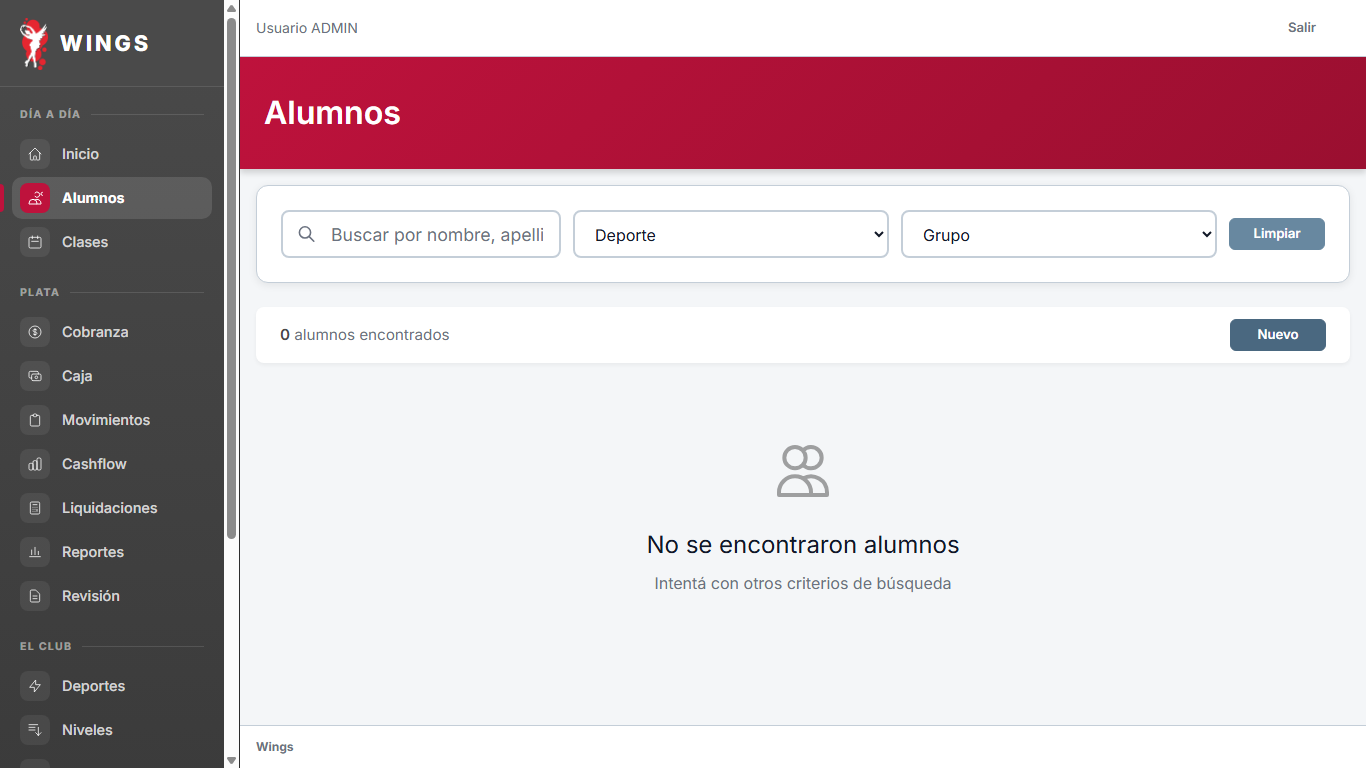
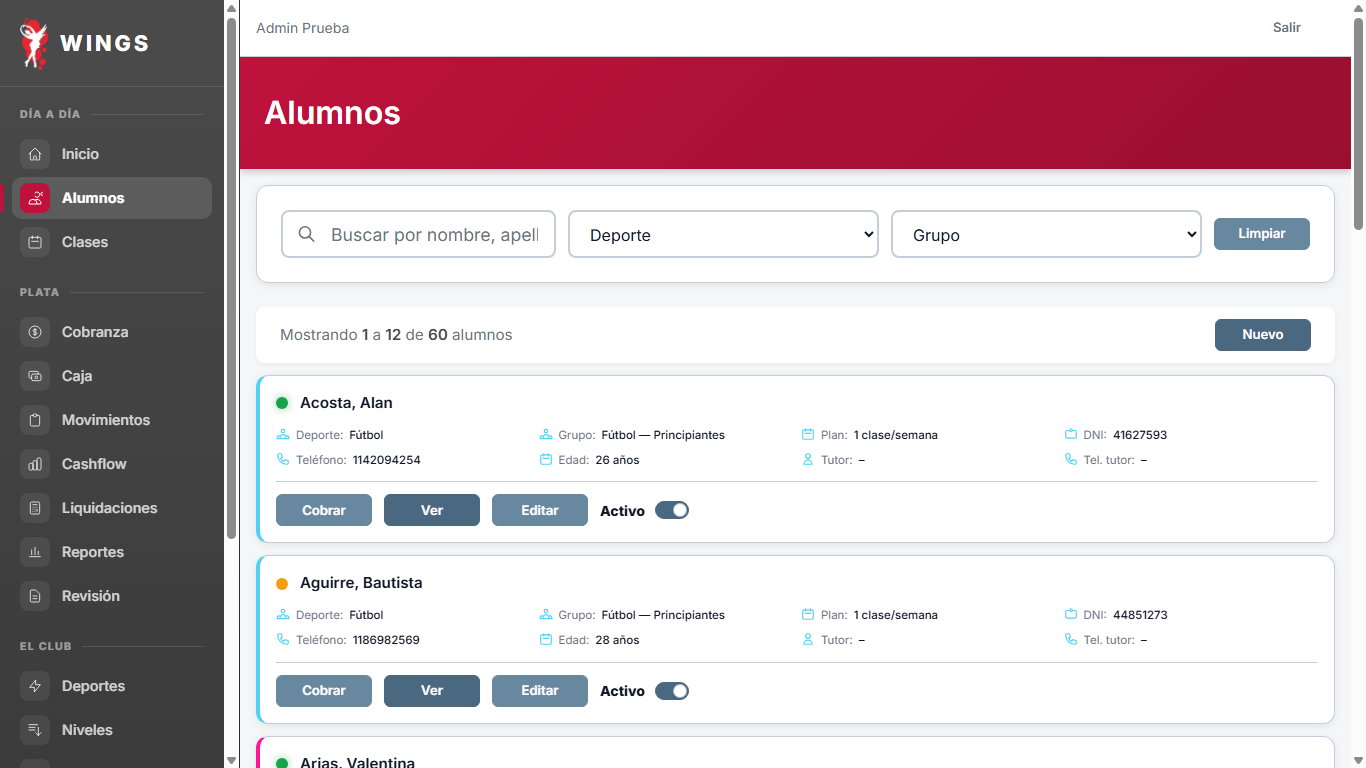
docs(evidencia-t81): capturas con base de datos poblada en Alumnos y Cobranza
Diseno-autorizado: Carlos pidió el teléfono en Alumnos y en Cobranza en lugar del DNI (25/10)

diff --git a/docs/00-estado/LOG-GEMINI.md b/docs/00-estado/LOG-GEMINI.md
@@ -17,7 +17,7 @@ no son nuevas verificaciones ni nuevas firmas del agente resumido.
   - **1. Modelo `Alumno` (`app/Models/Alumno.php`):** Accessor `telefono_contacto` que prioriza `celular` (el que el club usa para llamar), recae en `telefono_tutor` si no tiene celular (menores según A26) y devuelve `null` si ninguno existe.
   - **2. Vista `Cobranza` (`resources/views/cobranza/index.blade.php`):** Reemplazo del bloque `DNI: ...` por el teléfono de contacto. Si no tiene teléfono queda la celda limpia sin mostrar nada ni leyendas como «Sin teléfono». Se mantiene el `<colgroup>` y `table-layout: fixed; min-width: 860px;`.
   - **3. Vista `Alumnos` (`resources/views/alumnos/index.blade.php`):** Tarjetas actualizadas con etiqueta `Teléfono:` mostrando `$alumno->telefono_contacto ?? '–'`. La búsqueda por DNI en el buscador de cabecera y el autocomplete continúan funcionando sin alteraciones.
-- **Pruebas y evidencia:** `TelefonoAlumnosYCobranzaT81Test` (4 aprobadas, 28 aserciones); suite rápida (`--exclude-group=lento`) en `wings_testing_gemini`: **925 aprobadas, 6 omitidas, 0 fallidas** (7.421 aserciones). 4 capturas en Chrome real (1366 y 375 px) en `docs/06-pruebas/PRU-04/evidencia-t81/`. Guardianes `DocumentacionNoMienteTest`, `TableroAlDiaTest` y `CspSinCodigoIncrustadoTest` en verde. Informe en `docs/06-pruebas/PRU-04/IMPLEMENTACION-T81.md`.
+- **Pruebas y evidencia:** `TelefonoAlumnosYCobranzaT81Test` (4 aprobadas, 28 aserciones); suite rápida (`--exclude-group=lento`) en `wings_testing_gemini`: **925 aprobadas, 6 omitidas, 0 fallidas** (7.421 aserciones). 4 capturas en Chrome real (1366 y 375 px) con base completa poblada (60 alumnos, deudores reales, teléfonos de contacto y scroll a tabla en móvil) en `docs/06-pruebas/PRU-04/evidencia-t81/`. Guardianes `DocumentacionNoMienteTest`, `TableroAlDiaTest` y `CspSinCodigoIncrustadoTest` en verde. Informe en `docs/06-pruebas/PRU-04/IMPLEMENTACION-T81.md`.
 - **Próximo paso:** Aprobación visual de Carlos sobre las capturas y verificación por otro agente.
 
 ## 2026-10-25 — LOG GEM CAB — Verificación independiente de T77 (Cobro de mes sin deuda)
